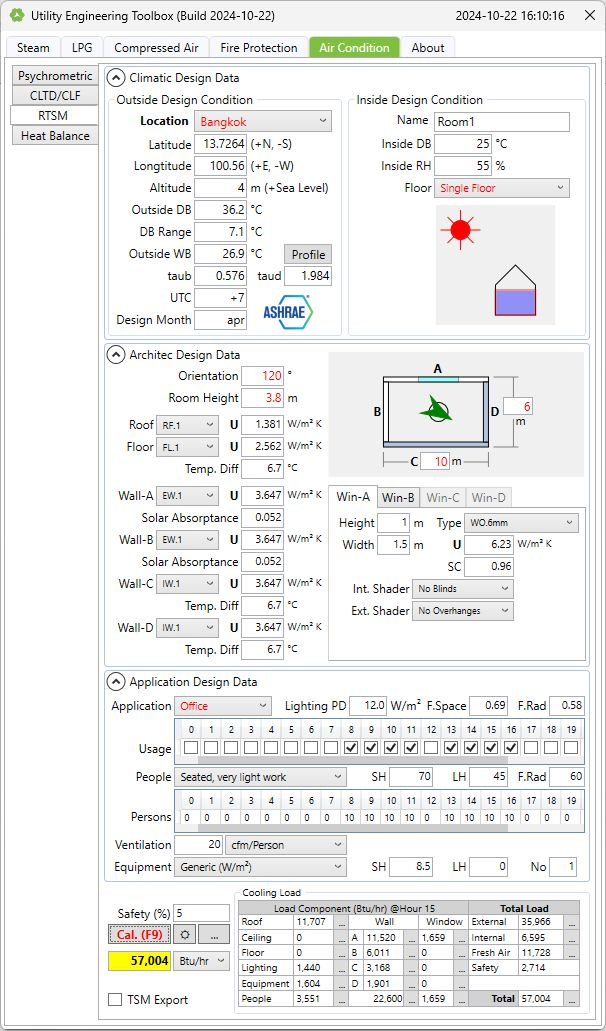
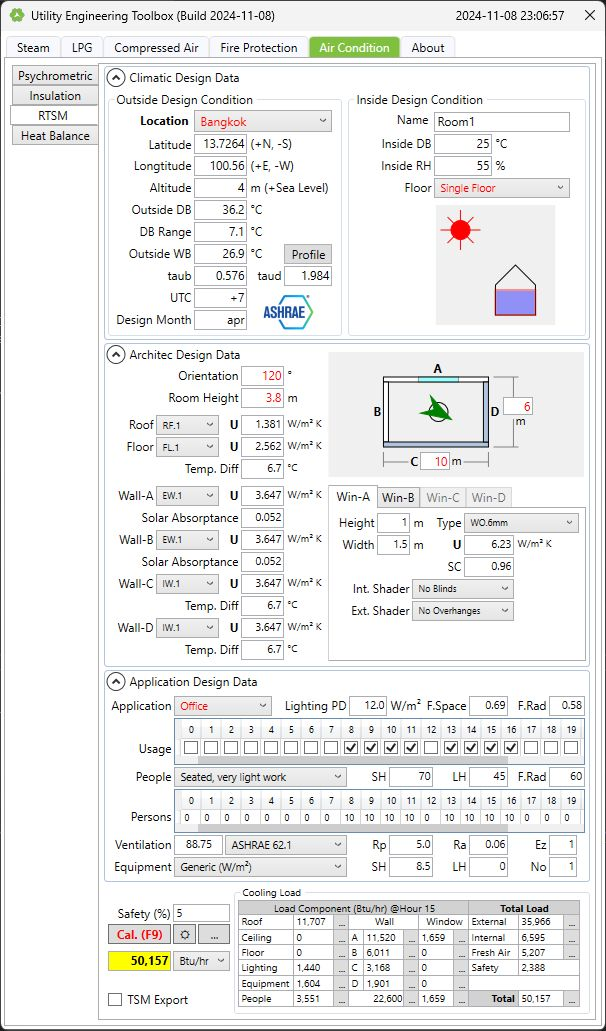
Ventilation follow ASHRAE Standard 62.1-2022

diff --git a/pyMEP/hvac/people.py b/pyMEP/hvac/people.py
@@ -4,6 +4,22 @@ from .. import Quantity
 
 Q_ = Quantity
 
+""" ASHRAE Standard 62.1-2022, Chapter 6, §6.16
+Table 6-1  Minimum Ventilation Rates in Breathing Zone 
+ Ventilation Rate Procedure : IP unit (cfm, f²)"""
+human_vrp_df = pd.DataFrame([
+	['Training Room'            ,7.5, 0.06],
+    ['Meeting Room'             ,7.5, 0.06],
+    ['Corridor'                 ,0	, 0.06],
+    ['Computer Room'            ,5	, 0.06],
+    ['Laboratory'               ,10	, 0.18],
+	['Loading Dock'             ,10	, 0.12],
+    ['Office'                   ,5	, 0.06],
+    ['Factory'                  ,10 , 0.18],
+    ['Warehouse bulky'          ,10 , 0.06],
+    ['Warehouse hand-carried'   ,10 , 0.06]],
+    columns=['Space Types', 'Rp', 'Ra'])
+
 """ASHRAE Fundamentals 2021, Chapter 18, §18.4
 Table 1 Representative Rates at Which Heat and Moisture Are Given Off by Human Beings in Different States of Activity
 LowV , HighV is %Sensible Heat that is radiant in any air velocity"""
